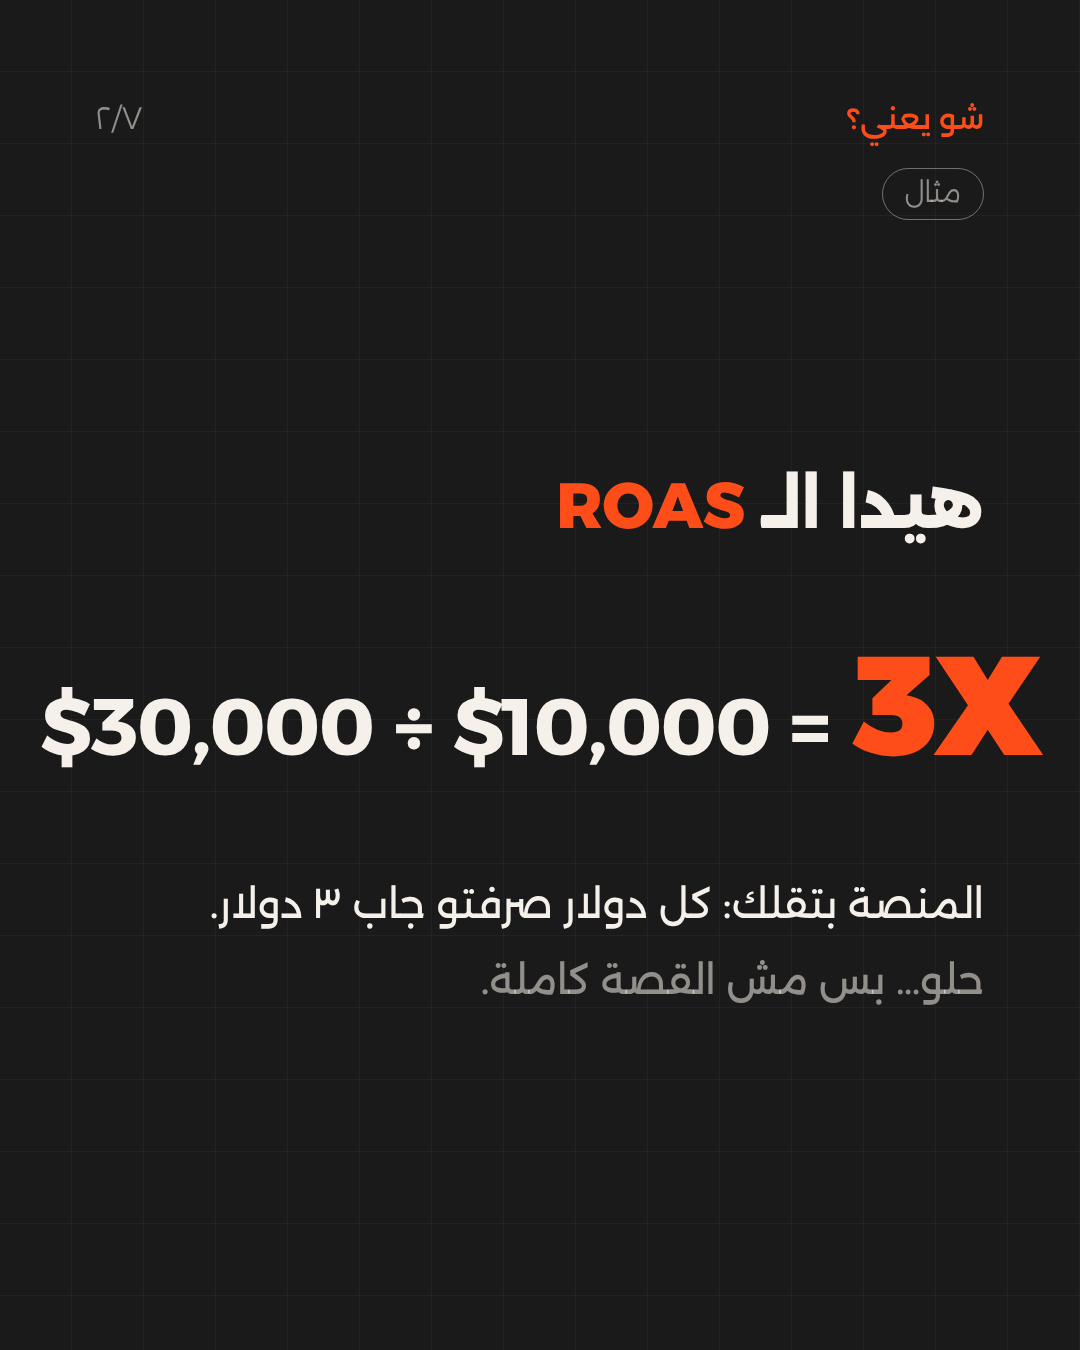
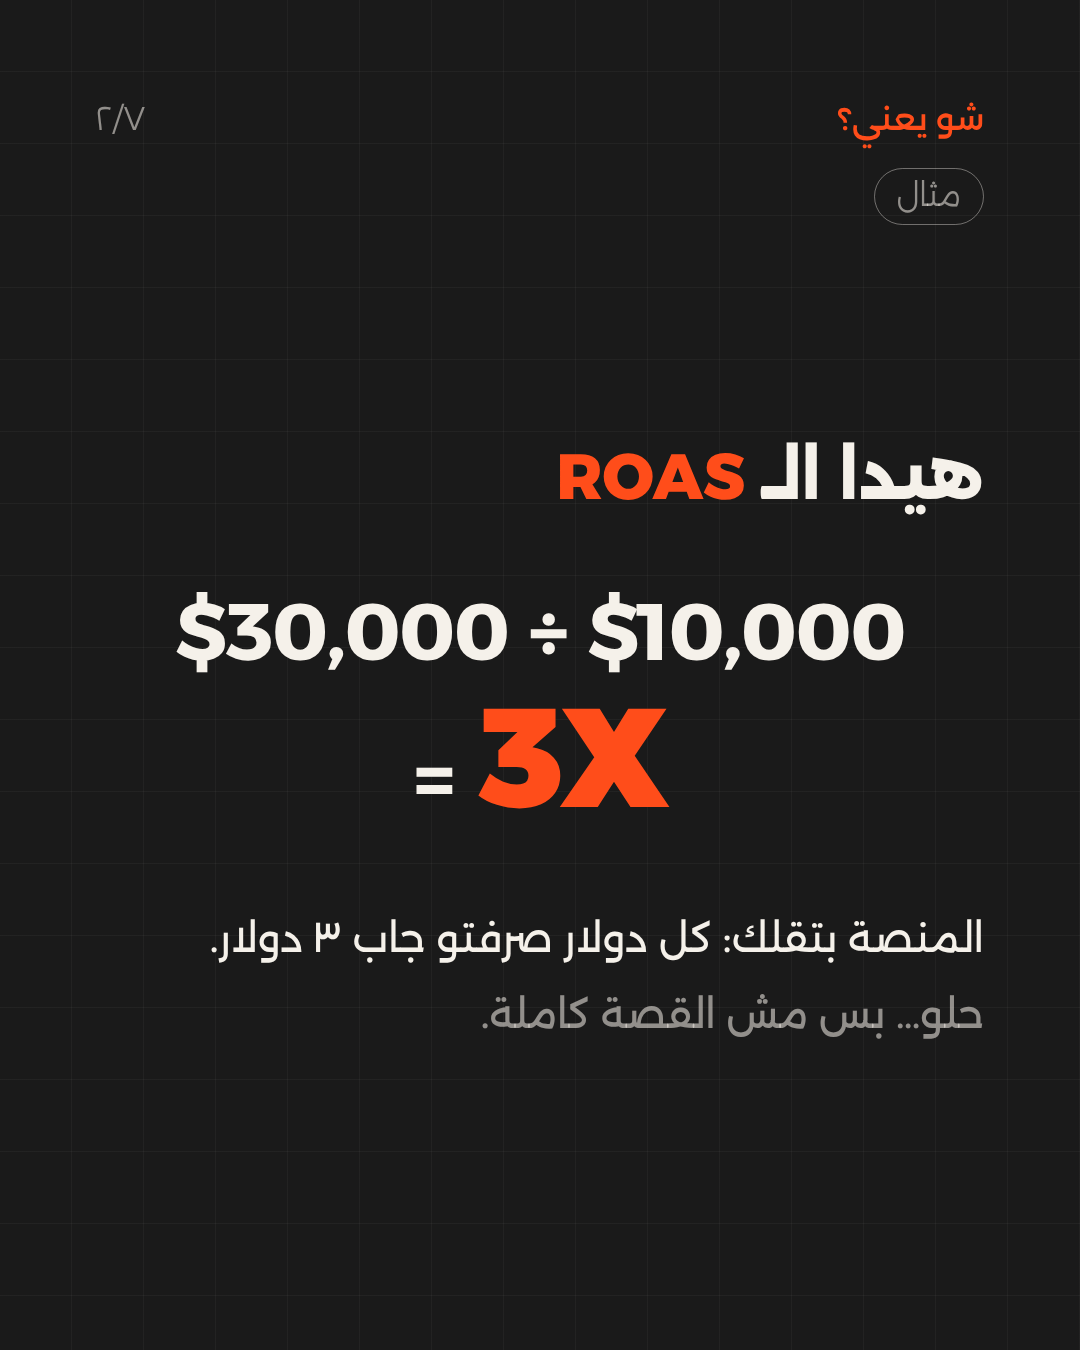
fix: keep slide 2 inside the safe margin, enlarge small labels
The ROAS equation ran ~55px past the 96px margin on both sides; it now
breaks onto two lines at the same sizes. Header labels and the example
tag go from 28-30px to 32px for phone readability.

Claude-Session: https://claude.ai/code/session_017eV6GCXmJHvCBWWVo8HGHv

diff --git a/carousels/incrementality-roas/slides/slide-2.html b/carousels/incrementality-roas/slides/slide-2.html
@@ -7,7 +7,8 @@
     <link rel="stylesheet" href="../styles.css" />
     <style>
 
-      .eq { font-size: 80px; font-weight: 700; margin: 80px 0 90px; white-space: nowrap; display: flex; align-items: baseline; justify-content: center; gap: 22px; letter-spacing: -0.02em; }
+      .eq { font-size: 80px; font-weight: 700; margin: 64px 0 72px; white-space: nowrap; letter-spacing: -0.02em; line-height: 1.2; }
+      .eq .res { display: flex; align-items: baseline; justify-content: center; gap: 24px; }
       .eq .big { font-size: 140px; }
     </style>
   </head>
@@ -22,7 +23,8 @@
 
         <div class="title">هيدا الـ <bdi class="or">ROAS</bdi></div>
         <div class="eq ltr center">
-          <span>$30,000 ÷ $10,000 =</span> <span class="num or big">3X</span>
+          <div>$30,000 ÷ $10,000</div>
+          <div class="res">= <span class="num or big">3X</span></div>
         </div>
         <div class="text">المنصة بتقلك: كل دولار صرفتو جاب ٣ دولار.</div>
         <div class="text muted" style="margin-top:12px">حلو… بس مش القصة كاملة.</div>

diff --git a/carousels/incrementality-roas/styles.css b/carousels/incrementality-roas/styles.css
@@ -49,8 +49,8 @@ body {
   height: 44px;
   flex: none;
 }
-.series { color: var(--orange); font-size: 30px; font-weight: 500; }
-.count { color: var(--paper-55); font-size: 30px; font-weight: 300; }
+.series { color: var(--orange); font-size: 32px; font-weight: 500; }
+.count { color: var(--paper-55); font-size: 32px; font-weight: 300; }
 
 .body {
   flex: 1;
@@ -68,7 +68,7 @@ body {
   border: 1.5px solid var(--paper-40);
   border-radius: 999px;
   color: var(--paper-55);
-  font-size: 28px;
+  font-size: 32px;
   font-weight: 300;
 }
 
